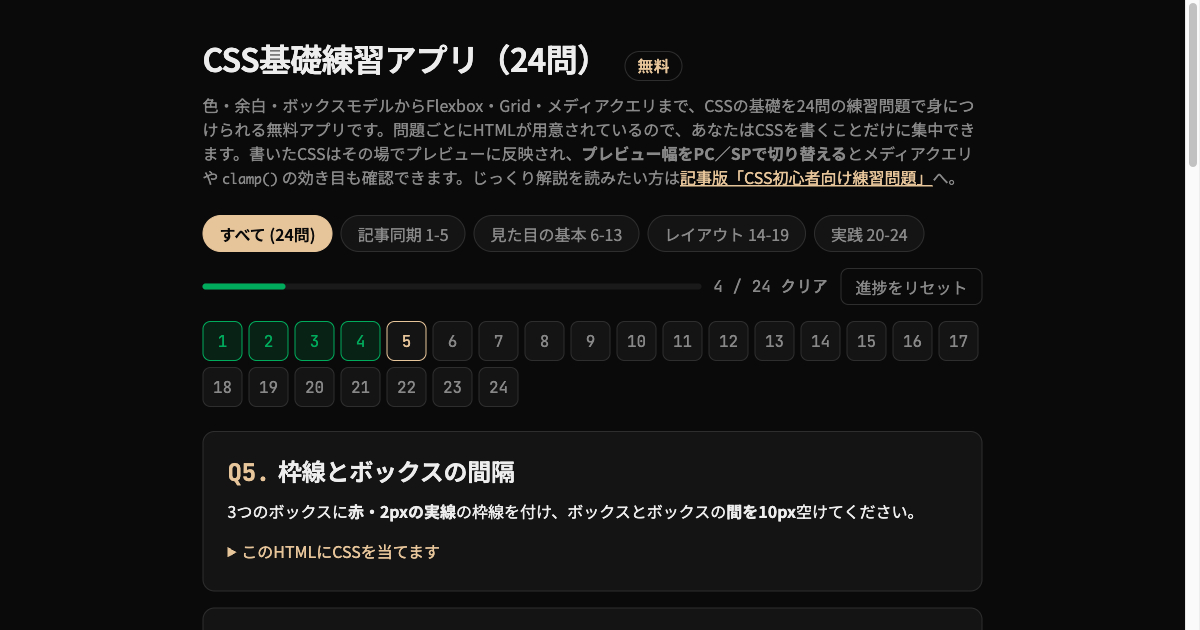
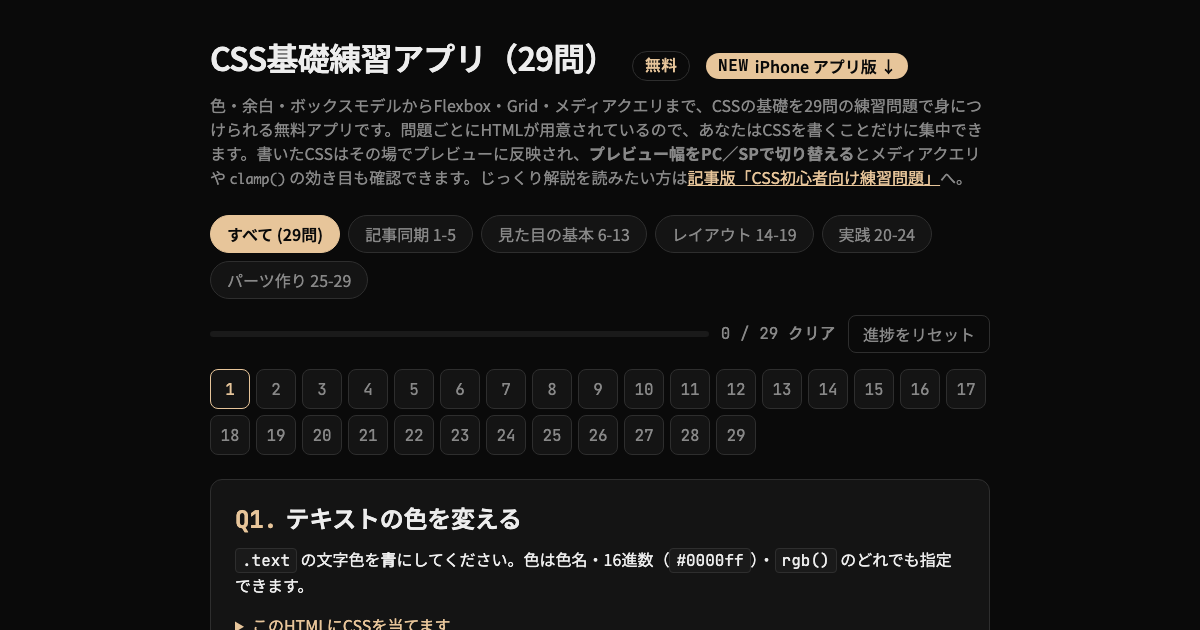
feat(apps): 記事3966の「白紙から作る」6問を練習アプリへ移す（HTML基礎 Q21 動画の埋め込み／CSS基礎 Q25〜Q29 固定ヘッダー・ヒーロー・料金表・フッター・レスポンシブLP）
- HTML基礎 21問・CSS基礎 29問に件数の表記・OG画像を合わせる（data.js と OG 画像の ?v=20261125a）
- CSS基礎のタブに「パーツ作り 25-29」を足す

diff --git a/apps/css-basics/js/data.js b/apps/css-basics/js/data.js
@@ -23,12 +23,18 @@ const PROBLEMS = [
   {"id": 22, "title": "メディアクエリを使わずに可変にする", "questionHtml": "見出しの文字サイズを <code>clamp()</code> で<strong>最小20px・最大40px</strong>の間で画面幅に応じて変わるようにしてください（真ん中の値には <code>vw</code> を含めます）。<strong>プレビューの幅をPCとSPで切り替える</strong>と変化が見えます。", "stageHtml": "<h2 class=\"fluid\">画面幅で伸び縮みする見出し</h2>", "starter": ".fluid {\n  \n}\n", "answer": ".fluid {\n  font-size: clamp(20px, 4vw + 8px, 40px);\n}\n"},
   {"id": 23, "title": "カードを1枚仕上げる", "questionHtml": "ここまでの内容を使って、<strong>画像・見出し・本文が縦に並んだカード</strong>を仕上げてください。<strong>幅280px・角丸・影・内側の余白・画像は幅いっぱい</strong>を満たします。", "stageHtml": "<div class=\"pcard\">\n  <img class=\"pimg\" src=\"https://picsum.photos/id/1025/560/320\" alt=\"サンプル画像\" width=\"560\" height=\"320\">\n  <div class=\"pbody\">\n    <h3 class=\"ptitle\">カードのタイトル</h3>\n    <p class=\"ptext\">説明文がここに入ります。</p>\n  </div>\n</div>", "starter": ".pcard {\n  \n}\n\n.pimg {\n  \n}\n\n.pbody {\n  \n}\n", "answer": ".pcard {\n  width: 280px;\n  border-radius: 12px;\n  box-shadow: 0 4px 12px rgba(0, 0, 0, 0.15);\n  overflow: hidden;\n  background-color: #fff;\n}\n\n.pimg {\n  display: block;\n  width: 100%;\n  height: auto;\n}\n\n.pbody {\n  padding: 16px 20px 20px;\n}\n"},
   {"id": 24, "title": "総仕上げ：ナビとカード一覧", "questionHtml": "ページの上部を仕上げてください。①<strong>ナビは横並び・右寄せ・間隔24px・下線なし</strong>、②<strong>カードは3列のGrid・間隔16px</strong>（画面が狭いときは1列）、③<strong>各カードは角丸・影・内側20px</strong>。<strong>プレビューをSPに切り替えて1列になるか</strong>も確認します。", "stageHtml": "<nav class=\"nav\">\n  <a href=\"#\">ホーム</a>\n  <a href=\"#\">サービス</a>\n  <a href=\"#\">お問い合わせ</a>\n</nav>\n\n<div class=\"list\">\n  <div class=\"card3\"><h3>カード1</h3><p>説明が入ります。</p></div>\n  <div class=\"card3\"><h3>カード2</h3><p>説明が入ります。</p></div>\n  <div class=\"card3\"><h3>カード3</h3><p>説明が入ります。</p></div>\n</div>", "starter": ".nav {\n  \n}\n\n.nav a {\n  \n}\n\n.list {\n  \n}\n\n.card3 {\n  background-color: #fff;\n  \n}\n", "answer": ".nav {\n  display: flex;\n  justify-content: flex-end;\n  gap: 24px;\n  margin-bottom: 24px;\n}\n\n.nav a {\n  color: #333;\n  text-decoration: none;\n}\n\n.nav a:hover {\n  text-decoration: underline;\n}\n\n.list {\n  display: grid;\n  grid-template-columns: repeat(3, 1fr);\n  gap: 16px;\n}\n\n@media (max-width: 600px) {\n  .list {\n    grid-template-columns: 1fr;\n  }\n}\n\n.card3 {\n  background-color: #fff;\n  border-radius: 12px;\n  box-shadow: 0 2px 8px rgba(0, 0, 0, 0.12);\n  padding: 20px;\n}\n"},
+  {"id": 25, "title": "固定ヘッダーを作る", "questionHtml": "スクロールしても<strong>画面の上に貼り付いたまま</strong>のヘッダーにしてください。<code>position: sticky</code> と <code>top: 0</code> で固定し、ほかの要素より上に出るよう <code>z-index</code> を付けます。背景は<strong>半透明の白</strong>にして、<code>backdrop-filter: blur(8px)</code> で後ろをぼかします。<strong>プレビューの中をスクロール</strong>して確かめます。", "stageHtml": "<header class=\"sticky-header\">\n  <h1>MySite</h1>\n  <nav>\n    <a href=\"#\">ホーム</a>\n    <a href=\"#\">記事</a>\n    <a href=\"#\">お問い合わせ</a>\n  </nav>\n</header>\n\n<div class=\"page\">\n  <div class=\"block b1\">スクロールしてみよう</div>\n  <div class=\"block b2\">ヘッダーは上に残る？</div>\n  <div class=\"block b3\">後ろがぼけて見える？</div>\n  <div class=\"block b4\">ページの終わり</div>\n</div>", "starter": ".sticky-header {\n  display: flex;\n  justify-content: space-between;\n  align-items: center;\n  padding: 16px 24px;\n  border-bottom: 1px solid #e6e6e6;\n  \n}\n\n.sticky-header h1 {\n  font-size: 20px;\n  margin: 0;\n}\n\n.sticky-header nav a {\n  margin-left: 24px;\n  text-decoration: none;\n  color: #333;\n}\n\n.block {\n  height: 160px;\n  margin-top: 16px;\n  display: flex;\n  align-items: center;\n  justify-content: center;\n  font-size: 20px;\n  font-weight: bold;\n  color: #fff;\n}\n\n.b1 { background-color: #3460fb; }\n.b2 { background-color: #e5484d; }\n.b3 { background-color: #00a63e; }\n.b4 { background-color: #f5a623; }\n", "answer": ".sticky-header {\n  display: flex;\n  justify-content: space-between;\n  align-items: center;\n  padding: 16px 24px;\n  border-bottom: 1px solid #e6e6e6;\n  position: sticky;\n  top: 0;\n  z-index: 100;\n  background-color: rgba(255, 255, 255, 0.85);\n  backdrop-filter: blur(8px);\n}\n\n.sticky-header h1 {\n  font-size: 20px;\n  margin: 0;\n}\n\n.sticky-header nav a {\n  margin-left: 24px;\n  text-decoration: none;\n  color: #333;\n}\n\n.block {\n  height: 160px;\n  margin-top: 16px;\n  display: flex;\n  align-items: center;\n  justify-content: center;\n  font-size: 20px;\n  font-weight: bold;\n  color: #fff;\n}\n\n.b1 { background-color: #3460fb; }\n.b2 { background-color: #e5484d; }\n.b3 { background-color: #00a63e; }\n.b4 { background-color: #f5a623; }\n"},
+  {"id": 26, "title": "ヒーローセクションを作る", "questionHtml": "ページの最初に置く大きな見せ場（ヒーロー）を作ります。<code>.hero</code> の背景に画像を敷き、<strong>その上に半透明の黒を重ねて</strong>文字を読みやすくしてください（<code>background</code> に <code>linear-gradient()</code> と <code>url()</code> を重ねて書きます）。高さは <code>min-height: 300px</code>、中身は<strong>縦横とも中央・白い文字</strong>にします。ボタンは<strong>青い背景・白い文字・角丸</strong>にし、マウスを乗せたら色が濃くなるようにします。画像は <code>https://picsum.photos/id/1018/1200/600</code> を使います。", "stageHtml": "<section class=\"hero\">\n  <div class=\"hero-content\">\n    <h2>Webサイトを、もっと速く。</h2>\n    <p>パフォーマンスに特化したWeb制作を提供します。</p>\n    <a href=\"#\" class=\"hero-btn\">お問い合わせ</a>\n  </div>\n</section>", "starter": ".hero {\n  \n}\n\n.hero-content h2 {\n  font-size: 32px;\n  margin: 0 0 12px;\n}\n\n.hero-content p {\n  font-size: 18px;\n  margin: 0 0 24px;\n}\n\n.hero-btn {\n  \n}\n\n.hero-btn:hover {\n  \n}\n", "answer": ".hero {\n  min-height: 300px;\n  display: flex;\n  align-items: center;\n  justify-content: center;\n  text-align: center;\n  color: #fff;\n  background: linear-gradient(rgba(0, 0, 0, 0.5), rgba(0, 0, 0, 0.5)),\n    url(\"https://picsum.photos/id/1018/1200/600\") center / cover no-repeat;\n}\n\n.hero-content h2 {\n  font-size: 32px;\n  margin: 0 0 12px;\n}\n\n.hero-content p {\n  font-size: 18px;\n  margin: 0 0 24px;\n}\n\n.hero-btn {\n  display: inline-block;\n  padding: 14px 32px;\n  background-color: #3460fb;\n  color: #fff;\n  text-decoration: none;\n  border-radius: 8px;\n  font-size: 18px;\n  transition: background-color 0.3s;\n}\n\n.hero-btn:hover {\n  background-color: #0017c1;\n}\n"},
+  {"id": 27, "title": "料金表を作る", "questionHtml": "3つのプランを並べた料金表を仕上げてください。①<code>.pricing</code> を <strong>Grid の3列・間隔24px</strong>にし、カードの高さは上で揃えます（<code>align-items: start</code>）。②おすすめの <code>.plan.featured</code> は<strong>枠線を青（#3460fb）にして、<code>transform: scale(1.05)</code> で少し大きく・影を付けて</strong>目立たせます。③<strong>画面幅768px以下では1列</strong>にし、拡大は外します。<strong>プレビューをSPに切り替えて1列になるか</strong>も確認します。", "stageHtml": "<div class=\"pricing\">\n  <div class=\"plan\">\n    <h3>Free</h3>\n    <div class=\"price\">¥0<span>/月</span></div>\n    <ul>\n      <li>基本機能</li>\n      <li>1プロジェクト</li>\n      <li>コミュニティサポート</li>\n    </ul>\n    <a href=\"#\" class=\"plan-btn\">始める</a>\n  </div>\n  <div class=\"plan featured\">\n    <h3>Standard</h3>\n    <div class=\"price\">¥980<span>/月</span></div>\n    <ul>\n      <li>全機能</li>\n      <li>10プロジェクト</li>\n      <li>優先サポート</li>\n    </ul>\n    <a href=\"#\" class=\"plan-btn\">おすすめ</a>\n  </div>\n  <div class=\"plan\">\n    <h3>Premium</h3>\n    <div class=\"price\">¥2,980<span>/月</span></div>\n    <ul>\n      <li>全機能 + API</li>\n      <li>無制限プロジェクト</li>\n      <li>専任サポート</li>\n    </ul>\n    <a href=\"#\" class=\"plan-btn\">始める</a>\n  </div>\n</div>", "starter": ".pricing {\n  \n}\n\n.plan {\n  border: 1px solid #e6e6e6;\n  border-radius: 12px;\n  padding: 24px 16px;\n  text-align: center;\n  background-color: #fff;\n}\n\n.plan h3 {\n  margin: 0 0 8px;\n}\n\n.price {\n  font-size: 32px;\n  font-weight: bold;\n  margin: 12px 0;\n}\n\n.price span {\n  font-size: 16px;\n}\n\n.plan ul {\n  list-style: none;\n  padding: 0;\n  margin: 0 0 20px;\n  text-align: left;\n}\n\n.plan li {\n  padding: 8px 0;\n  border-bottom: 1px solid #f1f1f4;\n}\n\n.plan li::before {\n  content: \"✓ \";\n  color: #00a63e;\n}\n\n.plan-btn {\n  display: block;\n  padding: 12px;\n  background-color: #3460fb;\n  color: #fff;\n  text-decoration: none;\n  border-radius: 8px;\n}\n\n.plan.featured {\n  \n}\n", "answer": ".pricing {\n  display: grid;\n  grid-template-columns: repeat(3, 1fr);\n  gap: 24px;\n  align-items: start;\n  padding: 16px;\n}\n\n.plan {\n  border: 1px solid #e6e6e6;\n  border-radius: 12px;\n  padding: 24px 16px;\n  text-align: center;\n  background-color: #fff;\n}\n\n.plan h3 {\n  margin: 0 0 8px;\n}\n\n.price {\n  font-size: 32px;\n  font-weight: bold;\n  margin: 12px 0;\n}\n\n.price span {\n  font-size: 16px;\n}\n\n.plan ul {\n  list-style: none;\n  padding: 0;\n  margin: 0 0 20px;\n  text-align: left;\n}\n\n.plan li {\n  padding: 8px 0;\n  border-bottom: 1px solid #f1f1f4;\n}\n\n.plan li::before {\n  content: \"✓ \";\n  color: #00a63e;\n}\n\n.plan-btn {\n  display: block;\n  padding: 12px;\n  background-color: #3460fb;\n  color: #fff;\n  text-decoration: none;\n  border-radius: 8px;\n}\n\n.plan.featured {\n  border-color: #3460fb;\n  transform: scale(1.05);\n  box-shadow: 0 4px 12px rgba(52, 96, 251, 0.2);\n}\n\n@media (max-width: 768px) {\n  .pricing {\n    grid-template-columns: 1fr;\n  }\n\n  .plan.featured {\n    transform: none;\n  }\n}\n"},
+  {"id": 28, "title": "フッターを段組みにする", "questionHtml": "会社情報・サービス・サポート・フォローの<strong>4列</strong>のフッターにしてください。<code>.footer-grid</code> を <code>grid-template-columns: repeat(4, 1fr)</code>・<strong>間隔32px</strong>にし、メディアクエリで<strong>768px以下は2列</strong>、<strong>480px以下は1列</strong>に段階的に切り替えます。<strong>プレビューをSP（375px）に切り替えて1列になるか</strong>確認します。", "stageHtml": "<footer class=\"site-footer\">\n  <div class=\"footer-grid\">\n    <div>\n      <h4>会社情報</h4>\n      <ul>\n        <li><a href=\"#\">会社概要</a></li>\n        <li><a href=\"#\">採用情報</a></li>\n        <li><a href=\"#\">プレスリリース</a></li>\n      </ul>\n    </div>\n    <div>\n      <h4>サービス</h4>\n      <ul>\n        <li><a href=\"#\">Web制作</a></li>\n        <li><a href=\"#\">コンサルティング</a></li>\n        <li><a href=\"#\">保守運用</a></li>\n      </ul>\n    </div>\n    <div>\n      <h4>サポート</h4>\n      <ul>\n        <li><a href=\"#\">よくある質問</a></li>\n        <li><a href=\"#\">お問い合わせ</a></li>\n        <li><a href=\"#\">利用規約</a></li>\n      </ul>\n    </div>\n    <div>\n      <h4>フォロー</h4>\n      <ul>\n        <li><a href=\"#\">X (Twitter)</a></li>\n        <li><a href=\"#\">GitHub</a></li>\n        <li><a href=\"#\">YouTube</a></li>\n      </ul>\n    </div>\n  </div>\n  <div class=\"footer-bottom\">\n    <p>© 2026 MySite. All rights reserved.</p>\n  </div>\n</footer>", "starter": ".site-footer {\n  background-color: #333;\n  color: #fff;\n  padding: 32px 24px 16px;\n}\n\n.footer-grid h4 {\n  margin: 0 0 12px;\n  font-size: 18px;\n}\n\n.footer-grid ul {\n  list-style: none;\n  padding: 0;\n  margin: 0;\n}\n\n.footer-grid li {\n  margin-bottom: 8px;\n}\n\n.footer-grid a {\n  color: #ccc;\n  text-decoration: none;\n}\n\n.footer-grid a:hover {\n  color: #fff;\n}\n\n.footer-bottom {\n  text-align: center;\n  margin-top: 24px;\n  padding-top: 16px;\n  border-top: 1px solid #555;\n  color: #b0b0b0;\n}\n\n.footer-grid {\n  \n}\n", "answer": ".site-footer {\n  background-color: #333;\n  color: #fff;\n  padding: 32px 24px 16px;\n}\n\n.footer-grid h4 {\n  margin: 0 0 12px;\n  font-size: 18px;\n}\n\n.footer-grid ul {\n  list-style: none;\n  padding: 0;\n  margin: 0;\n}\n\n.footer-grid li {\n  margin-bottom: 8px;\n}\n\n.footer-grid a {\n  color: #ccc;\n  text-decoration: none;\n}\n\n.footer-grid a:hover {\n  color: #fff;\n}\n\n.footer-bottom {\n  text-align: center;\n  margin-top: 24px;\n  padding-top: 16px;\n  border-top: 1px solid #555;\n  color: #b0b0b0;\n}\n\n.footer-grid {\n  display: grid;\n  grid-template-columns: repeat(4, 1fr);\n  gap: 32px;\n}\n\n@media (max-width: 768px) {\n  .footer-grid {\n    grid-template-columns: repeat(2, 1fr);\n  }\n}\n\n@media (max-width: 480px) {\n  .footer-grid {\n    grid-template-columns: 1fr;\n  }\n}\n"},
+  {"id": 29, "title": "総合：レスポンシブなLPを1枚作る", "questionHtml": "ここまでのパーツを組み合わせて、1枚のランディングページ（LP）を仕上げてください。①<strong>固定ヘッダー</strong>（ロゴとナビ・半透明＋ぼかし）②<strong>ヒーロー</strong>（背景画像＋半透明の黒・中央に白い文字とボタン）③<strong>特徴の3列カード</strong> ④<strong>料金の3列</strong>（おすすめを目立たせる）⑤<strong>お問い合わせフォーム</strong>（入力欄は幅いっぱい）⑥<strong>フッター</strong>。<strong>画面幅768px以下では、3列の所がすべて1列</strong>になるようにします。Q25〜Q28と、Q16（Grid）・Q24（ナビとカード）が手がかりです。<strong>プレビューをSPに切り替えて</strong>崩れないかも確かめます。", "stageHtml": "<header class=\"header\">\n  <strong>MySite</strong>\n  <nav>\n    <a href=\"#features\">特徴</a>\n    <a href=\"#pricing\">料金</a>\n    <a href=\"#contact\">お問い合わせ</a>\n  </nav>\n</header>\n\n<section class=\"hero\">\n  <div>\n    <h2>あなたのWebサイトを次のレベルへ</h2>\n    <p>高速・高品質なWeb制作を提供します</p>\n    <a href=\"#contact\" class=\"btn\">無料で相談する</a>\n  </div>\n</section>\n\n<section id=\"features\">\n  <h2>サービスの特徴</h2>\n  <div class=\"features\">\n    <div class=\"feature-card\">\n      <h3>高速表示</h3>\n      <p>Core Web Vitalsを整え、表示の速さを上げます。</p>\n    </div>\n    <div class=\"feature-card\">\n      <h3>レスポンシブ</h3>\n      <p>スマホでもPCでも読みやすいレイアウトにします。</p>\n    </div>\n    <div class=\"feature-card\">\n      <h3>SEO対策</h3>\n      <p>構造化データと内部の整理で検索に強くします。</p>\n    </div>\n  </div>\n</section>\n\n<section id=\"pricing\">\n  <h2>料金</h2>\n  <div class=\"lp-pricing\">\n    <div class=\"lp-plan\">\n      <h3>Free</h3>\n      <p class=\"lp-price\">¥0<span>/月</span></p>\n      <a href=\"#contact\" class=\"btn\">選ぶ</a>\n    </div>\n    <div class=\"lp-plan featured\">\n      <h3>Standard</h3>\n      <p class=\"lp-price\">¥980<span>/月</span></p>\n      <a href=\"#contact\" class=\"btn\">選ぶ</a>\n    </div>\n    <div class=\"lp-plan\">\n      <h3>Premium</h3>\n      <p class=\"lp-price\">¥2,980<span>/月</span></p>\n      <a href=\"#contact\" class=\"btn\">選ぶ</a>\n    </div>\n  </div>\n</section>\n\n<section id=\"contact\" class=\"contact\">\n  <h2>お問い合わせ</h2>\n  <form class=\"contact-form\">\n    <label for=\"name\">名前</label>\n    <input type=\"text\" id=\"name\" required>\n    <label for=\"email\">メールアドレス</label>\n    <input type=\"email\" id=\"email\" required>\n    <label for=\"message\">メッセージ</label>\n    <textarea id=\"message\" rows=\"4\"></textarea>\n    <button type=\"submit\" class=\"btn\">送信</button>\n  </form>\n</section>\n\n<footer class=\"site-footer\">\n  <p>© 2026 MySite. All rights reserved.</p>\n</footer>", "starter": "body {\n  \n}\n\n.header {\n  \n}\n\n.header nav a {\n  \n}\n\n.hero {\n  \n}\n\n.btn {\n  \n}\n\nsection {\n  \n}\n\nsection h2 {\n  \n}\n\n.features {\n  \n}\n\n.feature-card {\n  \n}\n\n.lp-pricing {\n  \n}\n\n.lp-plan {\n  \n}\n\n.lp-plan.featured {\n  \n}\n\n.contact-form {\n  \n}\n\n.contact-form label {\n  \n}\n\n.contact-form input,\n.contact-form textarea {\n  \n}\n\n.site-footer {\n  \n}\n", "answer": "body {\n  margin: 0;\n  color: #333;\n  line-height: 1.6;\n}\n\n.header {\n  position: sticky;\n  top: 0;\n  z-index: 100;\n  display: flex;\n  justify-content: space-between;\n  align-items: center;\n  padding: 16px 24px;\n  background-color: rgba(255, 255, 255, 0.9);\n  backdrop-filter: blur(8px);\n  border-bottom: 1px solid #e6e6e6;\n}\n\n.header nav a {\n  margin-left: 24px;\n  color: #333;\n  text-decoration: none;\n}\n\n.hero {\n  min-height: 300px;\n  display: flex;\n  align-items: center;\n  justify-content: center;\n  text-align: center;\n  color: #fff;\n  background: linear-gradient(rgba(0, 0, 0, 0.5), rgba(0, 0, 0, 0.5)),\n    url(\"https://picsum.photos/id/1018/1200/600\") center / cover no-repeat;\n}\n\n.btn {\n  display: inline-block;\n  padding: 12px 28px;\n  background-color: #3460fb;\n  color: #fff;\n  text-decoration: none;\n  border: none;\n  border-radius: 8px;\n  font-size: 16px;\n  cursor: pointer;\n}\n\n.btn:hover {\n  background-color: #0017c1;\n}\n\nsection {\n  padding: 48px 24px;\n}\n\nsection h2 {\n  text-align: center;\n  margin: 0 0 32px;\n  font-size: 28px;\n}\n\n.hero h2 {\n  margin-bottom: 12px;\n}\n\n.features {\n  display: grid;\n  grid-template-columns: repeat(3, 1fr);\n  gap: 24px;\n}\n\n.feature-card {\n  padding: 24px;\n  border: 1px solid #e6e6e6;\n  border-radius: 12px;\n  text-align: center;\n}\n\n.lp-pricing {\n  display: grid;\n  grid-template-columns: repeat(3, 1fr);\n  gap: 24px;\n  align-items: start;\n}\n\n.lp-plan {\n  padding: 24px;\n  border: 1px solid #e6e6e6;\n  border-radius: 12px;\n  text-align: center;\n}\n\n.lp-plan.featured {\n  border-color: #3460fb;\n  box-shadow: 0 4px 12px rgba(52, 96, 251, 0.2);\n}\n\n.lp-price {\n  font-size: 28px;\n  font-weight: bold;\n}\n\n.lp-price span {\n  font-size: 16px;\n}\n\n.contact {\n  background-color: #f8f8fb;\n}\n\n.contact-form {\n  max-width: 600px;\n  margin: 0 auto;\n}\n\n.contact-form label {\n  display: block;\n  margin-bottom: 4px;\n  font-weight: bold;\n}\n\n.contact-form input,\n.contact-form textarea {\n  display: block;\n  width: 100%;\n  box-sizing: border-box;\n  padding: 12px;\n  margin-bottom: 16px;\n  border: 1px solid #e6e6e6;\n  border-radius: 8px;\n  font-size: 16px;\n}\n\n.site-footer {\n  padding: 24px;\n  background-color: #333;\n  color: #fff;\n  text-align: center;\n}\n\n@media (max-width: 768px) {\n  .header {\n    flex-direction: column;\n    gap: 8px;\n  }\n\n  .header nav a {\n    margin: 0 8px;\n  }\n\n  .features,\n  .lp-pricing {\n    grid-template-columns: 1fr;\n  }\n}\n"},
 ];
 
 const LEVELS = [
-  {"key": "all", "label": "すべて (24問)", "range": [1, 24]},
+  {"key": "all", "label": "すべて (29問)", "range": [1, 29]},
   {"key": "article", "label": "記事同期 1-5", "range": [1, 5]},
   {"key": "basic", "label": "見た目の基本 6-13", "range": [6, 13]},
   {"key": "layout", "label": "レイアウト 14-19", "range": [14, 19]},
   {"key": "practice", "label": "実践 20-24", "range": [20, 24]},
+  {"key": "parts", "label": "パーツ作り 25-29", "range": [25, 29]},
 ];

diff --git a/apps/css-basics/index.html b/apps/css-basics/index.html
@@ -3,8 +3,8 @@
 <head>
 <meta charset="UTF-8">
 <meta name="viewport" content="width=device-width, initial-scale=1.0">
-<title>CSS練習問題アプリ【無料】24問をブラウザで書いて即プレビュー</title>
-<meta name="description" content="CSSの基礎を24問の練習問題で学べる無料アプリ。色・余白・ボックスモデルからFlexbox・Grid・メディアクエリまで、書いたCSSがその場でプレビューに反映されます。プレビュー幅をPC／SPで切り替えられるので、メディアクエリやclamp()の効き目もその場で確認できます。進捗は自動保存。登録・インストール不要です。">
+<title>CSS練習問題アプリ【無料】29問をブラウザで書いて即プレビュー</title>
+<meta name="description" content="CSSの基礎を29問の練習問題で学べる無料アプリ。色・余白・ボックスモデルからFlexbox・Grid・メディアクエリまで、書いたCSSがその場でプレビューに反映されます。プレビュー幅をPC／SPで切り替えられるので、メディアクエリやclamp()の効き目もその場で確認できます。進捗は自動保存。登録・インストール不要です。">
 <link rel="canonical" href="https://codequest.work/apps/css-basics/">
 <link rel="alternate" hreflang="ja" href="https://codequest.work/apps/css-basics/">
 <link rel="alternate" hreflang="x-default" href="https://codequest.work/apps/css-basics/">
@@ -13,18 +13,18 @@
 <meta property="og:type" content="website">
 <meta property="og:site_name" content="CodeQuest.work">
 <meta property="og:locale" content="ja_JP">
-<meta property="og:title" content="CSS練習問題アプリ【無料】24問をブラウザで書いて即プレビュー">
-<meta property="og:description" content="CSSの基礎を24問の練習問題で学べる無料アプリ。書いたCSSがその場でプレビューに反映され、プレビュー幅をPC／SPで切り替えてメディアクエリの効き目も確認できます。">
+<meta property="og:title" content="CSS練習問題アプリ【無料】29問をブラウザで書いて即プレビュー">
+<meta property="og:description" content="CSSの基礎を29問の練習問題で学べる無料アプリ。書いたCSSがその場でプレビューに反映され、プレビュー幅をPC／SPで切り替えてメディアクエリの効き目も確認できます。">
 <meta property="og:url" content="https://codequest.work/apps/css-basics/">
-<meta property="og:image" content="https://codequest.work/apps/css-basics/assets/og.png">
+<meta property="og:image" content="https://codequest.work/apps/css-basics/assets/og.png?v=20261125a">
 <meta property="og:image:width" content="1200">
 <meta property="og:image:height" content="630">
-<meta property="og:image:alt" content="CSS基礎練習アプリ（24問）">
+<meta property="og:image:alt" content="CSS基礎練習アプリ（29問）">
 
 <meta name="twitter:card" content="summary_large_image">
-<meta name="twitter:title" content="CSS練習問題アプリ【無料】24問をブラウザで書いて即プレビュー">
-<meta name="twitter:description" content="CSSの基礎を24問で練習できる無料アプリ。書いたCSSがその場でプレビューに反映され、PC／SP幅を切り替えて確認できます。">
-<meta name="twitter:image" content="https://codequest.work/apps/css-basics/assets/og.png">
+<meta name="twitter:title" content="CSS練習問題アプリ【無料】29問をブラウザで書いて即プレビュー">
+<meta name="twitter:description" content="CSSの基礎を29問で練習できる無料アプリ。書いたCSSがその場でプレビューに反映され、PC／SP幅を切り替えて確認できます。">
+<meta name="twitter:image" content="https://codequest.work/apps/css-basics/assets/og.png?v=20261125a">
 
 <script type="application/ld+json">
 {
@@ -32,9 +32,9 @@
   "@graph": [
     {
       "@type": "WebApplication",
-      "name": "CSS基礎練習アプリ（24問）",
+      "name": "CSS基礎練習アプリ（29問）",
       "url": "https://codequest.work/apps/css-basics/",
-      "description": "CSSの基礎を24問の練習問題で学べる無料アプリ。色・余白・ボックスモデルからFlexbox・Grid・メディアクエリまで、固定のステージHTMLへ書いたCSSがその場でプレビューへ反映される。プレビュー幅をPC／SPで切り替えられ、お手本の表示と見比べて答え合わせできる。進捗の自動保存に対応。登録・インストール不要。",
+      "description": "CSSの基礎を29問の練習問題で学べる無料アプリ。色・余白・ボックスモデルからFlexbox・Grid・メディアクエリまで、固定のステージHTMLへ書いたCSSがその場でプレビューへ反映される。プレビュー幅をPC／SPで切り替えられ、お手本の表示と見比べて答え合わせできる。進捗の自動保存に対応。登録・インストール不要。",
       "applicationCategory": "EducationalApplication",
       "operatingSystem": "Web",
       "browserRequirements": "Requires JavaScript.",
@@ -86,11 +86,11 @@
     ></noscript>
 <div class="wrap">
   <header>
-    <h1>CSS基礎練習アプリ（24問）</h1>
+    <h1>CSS基礎練習アプリ（29問）</h1>
     <span class="free">無料</span>
     <a class="app-chip" href="#app-cta"><span class="app-chip__new">NEW</span>iPhone アプリ版 ↓</a>
   </header>
-  <p class="lead">色・余白・ボックスモデルからFlexbox・Grid・メディアクエリまで、CSSの基礎を24問の練習問題で身につけられる無料アプリです。問題ごとにHTMLが用意されているので、あなたはCSSを書くことだけに集中できます。書いたCSSはその場でプレビューに反映され、<strong>プレビュー幅をPC／SPで切り替える</strong>とメディアクエリや <code>clamp()</code> の効き目も確認できます。じっくり解説を読みたい方は<a href="https://codequest.work/css-practice-problems/" target="_blank" rel="noopener">記事版「CSS初心者向け練習問題」</a>へ。</p>
+  <p class="lead">色・余白・ボックスモデルからFlexbox・Grid・メディアクエリまで、CSSの基礎を29問の練習問題で身につけられる無料アプリです。問題ごとにHTMLが用意されているので、あなたはCSSを書くことだけに集中できます。書いたCSSはその場でプレビューに反映され、<strong>プレビュー幅をPC／SPで切り替える</strong>とメディアクエリや <code>clamp()</code> の効き目も確認できます。じっくり解説を読みたい方は<a href="https://codequest.work/css-practice-problems/" target="_blank" rel="noopener">記事版「CSS初心者向け練習問題」</a>へ。</p>
 
   <div class="tabs" id="tabs"></div>
 
@@ -170,13 +170,13 @@
   <section class="about">
     <h2>このアプリについて</h2>
     <ul>
-      <li>色・文字・余白・ボックスモデル・セレクタから、Flexbox・Grid・position・メディアクエリ・CSS変数まで、CSSの基礎を24問で総ざらいできます</li>
-      <li>Q1〜Q5は記事版と同じ問題、Q6〜Q24はアプリ限定ドリル（padding と margin の違い / box-sizing / 疑似クラス / flex-wrap / grid-template-areas / z-index / transition / var() / clamp() など）です</li>
+      <li>色・文字・余白・ボックスモデル・セレクタから、Flexbox・Grid・position・メディアクエリ・CSS変数まで、CSSの基礎を29問で総ざらいできます</li>
+      <li>Q1〜Q5は記事版と同じ問題、Q6〜Q24はアプリ限定ドリル（padding と margin の違い / box-sizing / 疑似クラス / flex-wrap / grid-template-areas / z-index / transition / var() / clamp() など）、Q25〜Q29はページのパーツ作り（固定ヘッダー / ヒーロー / 料金表 / フッター / レスポンシブなLP）です</li>
       <li>問題ごとにHTMLが用意されているので、CSSを書くことだけに集中できます。入力すると下のプレビューへ自動で反映され、「お手本」タブで解答例の表示と見比べられます（登録・インストール不要）</li>
       <li><strong>プレビュー幅をPC／SP 375pxで切り替えられます</strong>。プレビューは独立したビューポートなので、メディアクエリや <code>clamp()</code> が実際に切り替わるところをその場で確認できます</li>
       <li>「✓できた / △あとで復習」の自己判定はこの端末に自動保存され、復習リストだけを解き直せます</li>
     </ul>
-    <p>各問題の詳しい解説は、記事版「<a href="https://codequest.work/css-practice-problems/" target="_blank" rel="noopener">CSS初心者向け練習問題｜プロパティの基礎から簡単なレイアウト作成まで</a>」にまとめています。HTMLから学びたい方は<a href="https://codequest.work/apps/html-basics/" target="_blank" rel="noopener">HTML基礎練習アプリ（20問）</a>もどうぞ。</p>
+    <p>各問題の詳しい解説は、記事版「<a href="https://codequest.work/css-practice-problems/" target="_blank" rel="noopener">CSS初心者向け練習問題｜プロパティの基礎から簡単なレイアウト作成まで</a>」にまとめています。HTMLから学びたい方は<a href="https://codequest.work/apps/html-basics/" target="_blank" rel="noopener">HTML基礎練習アプリ（21問）</a>もどうぞ。</p>
   </section>
 
   <aside class="app-cta" id="app-cta" data-app="css-basics" aria-labelledby="app-cta-title">
@@ -209,7 +209,7 @@
   </footer>
 </div>
 
-<script src="js/data.js?v=20260806a"></script>
+<script src="js/data.js?v=20261125a"></script>
 <script src="js/main.js?v=20260806a"></script>
 </body>
 </html>

diff --git a/apps/html-basics/index.html b/apps/html-basics/index.html
@@ -3,8 +3,8 @@
 <head>
 <meta charset="UTF-8">
 <meta name="viewport" content="width=device-width, initial-scale=1.0">
-<title>HTML練習問題アプリ【無料】20問をブラウザで書いて即プレビュー</title>
-<meta name="description" content="HTMLの基礎を20問の練習問題で学べる無料アプリ。見出し・リンク・画像・リスト・表・フォーム・セマンティックタグまで、書いたHTMLがその場でプレビューに反映され、お手本の表示と見比べて答え合わせできます。進捗は自動保存。登録・インストール不要です。">
+<title>HTML練習問題アプリ【無料】21問をブラウザで書いて即プレビュー</title>
+<meta name="description" content="HTMLの基礎を21問の練習問題で学べる無料アプリ。見出し・リンク・画像・リスト・表・フォーム・セマンティックタグまで、書いたHTMLがその場でプレビューに反映され、お手本の表示と見比べて答え合わせできます。進捗は自動保存。登録・インストール不要です。">
 <link rel="canonical" href="https://codequest.work/apps/html-basics/">
 <link rel="alternate" hreflang="ja" href="https://codequest.work/apps/html-basics/">
 <link rel="alternate" hreflang="x-default" href="https://codequest.work/apps/html-basics/">
@@ -13,18 +13,18 @@
 <meta property="og:type" content="website">
 <meta property="og:site_name" content="CodeQuest.work">
 <meta property="og:locale" content="ja_JP">
-<meta property="og:title" content="HTML練習問題アプリ【無料】20問をブラウザで書いて即プレビュー">
-<meta property="og:description" content="HTMLの基礎を20問の練習問題で学べる無料アプリ。書いたHTMLがその場でプレビューに反映され、お手本の表示と見比べて答え合わせできます。">
+<meta property="og:title" content="HTML練習問題アプリ【無料】21問をブラウザで書いて即プレビュー">
+<meta property="og:description" content="HTMLの基礎を21問の練習問題で学べる無料アプリ。書いたHTMLがその場でプレビューに反映され、お手本の表示と見比べて答え合わせできます。">
 <meta property="og:url" content="https://codequest.work/apps/html-basics/">
-<meta property="og:image" content="https://codequest.work/apps/html-basics/assets/og.png">
+<meta property="og:image" content="https://codequest.work/apps/html-basics/assets/og.png?v=20261125a">
 <meta property="og:image:width" content="1200">
 <meta property="og:image:height" content="630">
-<meta property="og:image:alt" content="HTML基礎練習アプリ（20問）">
+<meta property="og:image:alt" content="HTML基礎練習アプリ（21問）">
 
 <meta name="twitter:card" content="summary_large_image">
-<meta name="twitter:title" content="HTML練習問題アプリ【無料】20問をブラウザで書いて即プレビュー">
-<meta name="twitter:description" content="HTMLの基礎を20問で練習できる無料アプリ。書いたHTMLがその場でプレビューに反映され、お手本と見比べられます。">
-<meta name="twitter:image" content="https://codequest.work/apps/html-basics/assets/og.png">
+<meta name="twitter:title" content="HTML練習問題アプリ【無料】21問をブラウザで書いて即プレビュー">
+<meta name="twitter:description" content="HTMLの基礎を21問で練習できる無料アプリ。書いたHTMLがその場でプレビューに反映され、お手本と見比べられます。">
+<meta name="twitter:image" content="https://codequest.work/apps/html-basics/assets/og.png?v=20261125a">
 
 <script type="application/ld+json">
 {
@@ -32,9 +32,9 @@
   "@graph": [
     {
       "@type": "WebApplication",
-      "name": "HTML基礎練習アプリ（20問）",
+      "name": "HTML基礎練習アプリ（21問）",
       "url": "https://codequest.work/apps/html-basics/",
-      "description": "HTMLの基礎を20問の練習問題で学べる無料アプリ。見出し・リンク・画像・リスト・表・フォーム・セマンティックタグまで、書いたHTMLがその場でプレビューに反映され、お手本の表示と見比べて答え合わせできる。進捗の自動保存に対応。登録・インストール不要。",
+      "description": "HTMLの基礎を21問の練習問題で学べる無料アプリ。見出し・リンク・画像・リスト・表・フォーム・セマンティックタグまで、書いたHTMLがその場でプレビューに反映され、お手本の表示と見比べて答え合わせできる。進捗の自動保存に対応。登録・インストール不要。",
       "applicationCategory": "EducationalApplication",
       "operatingSystem": "Web",
       "browserRequirements": "Requires JavaScript.",
@@ -86,11 +86,11 @@
     ></noscript>
 <div class="wrap">
   <header>
-    <h1>HTML基礎練習アプリ（20問）</h1>
+    <h1>HTML基礎練習アプリ（21問）</h1>
     <span class="free">無料</span>
     <a class="app-chip" href="#app-cta"><span class="app-chip__new">NEW</span>iPhone アプリ版 ↓</a>
   </header>
-  <p class="lead">見出し・段落からリンク・画像・リスト・表・フォーム・セマンティックタグまで、HTMLの基礎を20問の練習問題で身につけられる無料アプリです。書いたHTMLはその場でプレビューに反映され、「お手本」の表示と見比べて答え合わせできます。じっくり解説を読みたい方は<a href="https://codequest.work/html-practice-questions/" target="_blank" rel="noopener">記事版「HTML基礎練習問題」</a>へ。</p>
+  <p class="lead">見出し・段落からリンク・画像・リスト・表・フォーム・セマンティックタグまで、HTMLの基礎を21問の練習問題で身につけられる無料アプリです。書いたHTMLはその場でプレビューに反映され、「お手本」の表示と見比べて答え合わせできます。じっくり解説を読みたい方は<a href="https://codequest.work/html-practice-questions/" target="_blank" rel="noopener">記事版「HTML基礎練習問題」</a>へ。</p>
 
   <div class="tabs" id="tabs"></div>
 
@@ -163,12 +163,12 @@
   <section class="about">
     <h2>このアプリについて</h2>
     <ul>
-      <li>見出し・段落・リンク・画像・リスト・表・フォーム・セマンティックタグまで、HTMLの基礎を20問で総ざらいできます</li>
-      <li>Q1〜Q6は記事版と同じ問題、Q7〜Q20はアプリ限定ドリル（input の type / label と for / thead と scope / 入れ子リスト / alt / target と rel / article と section / fieldset / dl / head のメタ情報など）です</li>
+      <li>見出し・段落・リンク・画像・リスト・表・フォーム・セマンティックタグまで、HTMLの基礎を21問で総ざらいできます</li>
+      <li>Q1〜Q6は記事版と同じ問題、Q7〜Q21はアプリ限定ドリル（input の type / label と for / thead と scope / 入れ子リスト / alt / target と rel / article と section / fieldset / dl / head のメタ情報 / video と iframe での動画の埋め込みなど）です</li>
       <li>エディタにはHTMLのひな形が入っています。入力すると下のプレビューへ自動で反映され、「お手本」タブに切り替えると解答例の表示と見比べられます（登録・インストール不要）</li>
       <li>「✓できた / △あとで復習」の自己判定はこの端末に自動保存され、復習リストだけを解き直せます</li>
     </ul>
-    <p>各問題の詳しい解説は、記事版「<a href="https://codequest.work/html-practice-questions/" target="_blank" rel="noopener">HTML基礎練習問題｜初心者が実践で学べる！レイアウトからリンク設定まで完全解説</a>」にまとめています。書けるようになったら、見た目を整える<a href="https://codequest.work/apps/css-basics/" target="_blank" rel="noopener">CSS基礎練習アプリ（24問）</a>へどうぞ。</p>
+    <p>各問題の詳しい解説は、記事版「<a href="https://codequest.work/html-practice-questions/" target="_blank" rel="noopener">HTML基礎練習問題｜初心者が実践で学べる！レイアウトからリンク設定まで完全解説</a>」にまとめています。書けるようになったら、見た目を整える<a href="https://codequest.work/apps/css-basics/" target="_blank" rel="noopener">CSS基礎練習アプリ（29問）</a>へどうぞ。</p>
   </section>
 
   <aside class="app-cta" id="app-cta" data-app="html-basics" aria-labelledby="app-cta-title">
@@ -201,7 +201,7 @@
   </footer>
 </div>
 
-<script src="js/data.js?v=20260806a"></script>
+<script src="js/data.js?v=20261125a"></script>
 <script src="js/main.js?v=20260806a"></script>
 </body>
 </html>

diff --git a/apps/html-basics/js/data.js b/apps/html-basics/js/data.js
@@ -19,11 +19,12 @@ const PROBLEMS = [
   {"id": 18, "title": "用語と説明の組み合わせ", "questionHtml": "用語集を作ります。「用語」と「その説明」がペアになる箇条書きは <code>&lt;ul&gt;</code> ではなく<strong>説明リスト</strong>で書きます。<code>&lt;dl&gt;</code> の中に <code>&lt;dt&gt;</code>（用語）と <code>&lt;dd&gt;</code>（説明）を並べてください。", "starter": "<!DOCTYPE html>\n<html lang=\"ja\">\n<head>\n  <meta charset=\"UTF-8\">\n  <meta name=\"viewport\" content=\"width=device-width, initial-scale=1.0\">\n  <title>用語集</title>\n</head>\n<body>\n  <h1>HTML用語集</h1>\n  <!-- ここに説明リストを書いてください -->\n</body>\n</html>\n", "answer": "<!DOCTYPE html>\n<html lang=\"ja\">\n<head>\n  <meta charset=\"UTF-8\">\n  <meta name=\"viewport\" content=\"width=device-width, initial-scale=1.0\">\n  <title>用語集</title>\n</head>\n<body>\n  <h1>HTML用語集</h1>\n  <dl>\n    <dt>タグ</dt>\n    <dd>&lt;p&gt; のように、要素の始まりと終わりを示す目印。</dd>\n\n    <dt>属性</dt>\n    <dd>href や alt のように、タグに追加の情報を与えるもの。</dd>\n\n    <dt>要素</dt>\n    <dd>開始タグから終了タグまでのひとかたまり。</dd>\n  </dl>\n</body>\n</html>\n"},
   {"id": 19, "title": "head に書く情報", "questionHtml": "画面には表示されないけれど検索やSNSで使われる情報を <code>&lt;head&gt;</code> に書きます。<code>&lt;html lang&gt;</code>・<code>&lt;meta charset&gt;</code>・<code>&lt;meta name=\"viewport\"&gt;</code>・<code>&lt;title&gt;</code>・<code>&lt;meta name=\"description\"&gt;</code> の5つを揃えてください。", "starter": "<!DOCTYPE html>\n<html>\n<head>\n  <title></title>\n</head>\n<body>\n  <h1>カフェ ○○</h1>\n  <p>駅から徒歩3分の小さなコーヒースタンドです。</p>\n</body>\n</html>\n", "answer": "<!DOCTYPE html>\n<html lang=\"ja\">\n<head>\n  <meta charset=\"UTF-8\">\n  <meta name=\"viewport\" content=\"width=device-width, initial-scale=1.0\">\n  <title>カフェ ○○｜駅徒歩3分のコーヒースタンド</title>\n  <meta name=\"description\" content=\"駅から徒歩3分のコーヒースタンド「カフェ ○○」。自家焙煎の豆で淹れるドリップコーヒーをテイクアウトできます。\">\n</head>\n<body>\n  <h1>カフェ ○○</h1>\n  <p>駅から徒歩3分の小さなコーヒースタンドです。</p>\n</body>\n</html>\n"},
   {"id": 20, "title": "総仕上げ：1ページ作る", "questionHtml": "ここまでの内容を全部使って、お店の1ページを完成させてください。<strong>head の基本情報</strong>・<code>header</code>＋<code>nav</code>・<code>main</code> の中の <code>article</code>／<code>section</code>・画像（<code>alt</code>付き）・表・フォーム・<code>footer</code> を含めます。", "starter": "<!DOCTYPE html>\n<html lang=\"ja\">\n<head>\n  <meta charset=\"UTF-8\">\n  <meta name=\"viewport\" content=\"width=device-width, initial-scale=1.0\">\n  <title>カフェ ○○</title>\n</head>\n<body>\n  <header>\n    <!-- ここから作ってください -->\n  </header>\n</body>\n</html>\n", "answer": "<!DOCTYPE html>\n<html lang=\"ja\">\n<head>\n  <meta charset=\"UTF-8\">\n  <meta name=\"viewport\" content=\"width=device-width, initial-scale=1.0\">\n  <title>カフェ ○○｜駅徒歩3分のコーヒースタンド</title>\n  <meta name=\"description\" content=\"駅から徒歩3分のコーヒースタンド「カフェ ○○」。メニューとお問い合わせはこちら。\">\n</head>\n<body>\n  <header>\n    <h1>カフェ ○○</h1>\n    <nav>\n      <ul>\n        <li><a href=\"#menu\">メニュー</a></li>\n        <li><a href=\"#contact\">お問い合わせ</a></li>\n      </ul>\n    </nav>\n  </header>\n\n  <main>\n    <article>\n      <img src=\"https://picsum.photos/id/431/320/200\" alt=\"カウンターに並ぶドリップコーヒー\" width=\"320\" height=\"200\">\n\n      <section id=\"menu\">\n        <h2>メニュー</h2>\n        <table border=\"1\">\n          <caption>ドリンク価格表</caption>\n          <thead>\n            <tr>\n              <th scope=\"col\">商品</th>\n              <th scope=\"col\">価格</th>\n            </tr>\n          </thead>\n          <tbody>\n            <tr>\n              <th scope=\"row\">ドリップコーヒー</th>\n              <td>420円</td>\n            </tr>\n            <tr>\n              <th scope=\"row\">カフェラテ</th>\n              <td>480円</td>\n            </tr>\n          </tbody>\n        </table>\n      </section>\n\n      <section id=\"contact\">\n        <h2>お問い合わせ</h2>\n        <form action=\"/contact\" method=\"post\">\n          <label for=\"q-name\">お名前</label>\n          <input type=\"text\" id=\"q-name\" name=\"name\" required><br><br>\n\n          <label for=\"q-mail\">メールアドレス</label>\n          <input type=\"email\" id=\"q-mail\" name=\"email\" required><br><br>\n\n          <label for=\"q-body\">ご用件</label><br>\n          <textarea id=\"q-body\" name=\"body\" rows=\"4\" cols=\"40\"></textarea><br><br>\n\n          <button type=\"submit\">送信する</button>\n        </form>\n      </section>\n    </article>\n  </main>\n\n  <footer>\n    <p>Copyright &copy; 2026 カフェ ○○</p>\n  </footer>\n</body>\n</html>\n"},
+  {"id": 21, "title": "動画を埋め込む", "questionHtml": "<code>&lt;video&gt;</code> で動画ファイルを再生するプレーヤーと、<code>&lt;iframe&gt;</code> で YouTube の動画を埋め込んでください。どちらも<strong>自動再生しない</strong>のがポイントです。<code>&lt;video&gt;</code> には操作パネルを出す <code>controls</code> を、<code>&lt;iframe&gt;</code> には <code>title</code> と、表示が近づくまで読み込まない <code>loading=\"lazy\"</code> を付けます。<code>VIDEO_ID</code> は埋め込みたい動画のIDに置き換えます（このプレビューでは安全のため YouTube は再生されません。枠が出ればOKです）。", "starter": "<!DOCTYPE html>\n<html lang=\"ja\">\n<head>\n  <meta charset=\"UTF-8\">\n  <meta name=\"viewport\" content=\"width=device-width, initial-scale=1.0\">\n  <title>動画の埋め込み</title>\n</head>\n<body>\n  <h1>動画のページ</h1>\n\n  <h2>動画プレーヤー</h2>\n  <!-- video をここに -->\n\n  <h2>YouTube埋め込み</h2>\n  <!-- iframe をここに -->\n</body>\n</html>\n", "answer": "<!DOCTYPE html>\n<html lang=\"ja\">\n<head>\n  <meta charset=\"UTF-8\">\n  <meta name=\"viewport\" content=\"width=device-width, initial-scale=1.0\">\n  <title>動画の埋め込み</title>\n</head>\n<body>\n  <h1>動画のページ</h1>\n\n  <h2>動画プレーヤー</h2>\n  <video controls width=\"480\" height=\"270\">\n    <source src=\"https://interactive-examples.mdn.mozilla.net/media/cc0-videos/flower.mp4\" type=\"video/mp4\">\n    お使いのブラウザは動画の再生に対応していません。\n  </video>\n\n  <h2>YouTube埋め込み</h2>\n  <iframe\n    width=\"480\"\n    height=\"270\"\n    src=\"https://www.youtube.com/embed/VIDEO_ID\"\n    title=\"YouTube動画\"\n    allow=\"accelerometer; clipboard-write; encrypted-media; gyroscope\"\n    allowfullscreen\n    loading=\"lazy\">\n  </iframe>\n</body>\n</html>\n"},
 ];
 
 const LEVELS = [
-  {"key": "all", "label": "すべて (20問)", "range": [1, 20]},
+  {"key": "all", "label": "すべて (21問)", "range": [1, 21]},
   {"key": "article", "label": "記事同期 1-6", "range": [1, 6]},
   {"key": "attr", "label": "属性と構造 7-13", "range": [7, 13]},
-  {"key": "extra", "label": "実践ドリル 14-20", "range": [14, 20]},
+  {"key": "extra", "label": "実践ドリル 14-21", "range": [14, 21]},
 ];

diff --git a/README.md b/README.md
@@ -52,8 +52,8 @@
 
 | アプリ | 説明 | URL |
 |---|---|---|
-| [HTML練習問題](./apps/html-basics/) | HTMLの20問をブラウザで書いて即プレビュー | [デモ](https://codequest.work/apps/html-basics/) |
-| [CSS練習問題](./apps/css-basics/) | CSSの24問をブラウザで書いて即プレビュー | [デモ](https://codequest.work/apps/css-basics/) |
+| [HTML練習問題](./apps/html-basics/) | HTMLの21問をブラウザで書いて即プレビュー | [デモ](https://codequest.work/apps/html-basics/) |
+| [CSS練習問題](./apps/css-basics/) | CSSの29問をブラウザで書いて即プレビュー | [デモ](https://codequest.work/apps/css-basics/) |
 | [JavaScript練習問題](./apps/js-beginner/) | JavaScriptの基礎30問 | [デモ](https://codequest.work/apps/js-beginner/) |
 | [JavaScript配列メソッドクイズ](./apps/js-array/) | map・filter・reduceなど20問 | [デモ](https://codequest.work/apps/js-array/) |
 | [JavaScript DOM操作クイズ](./apps/js-dom/) | DOM操作の20問 | [デモ](https://codequest.work/apps/js-dom/) |
